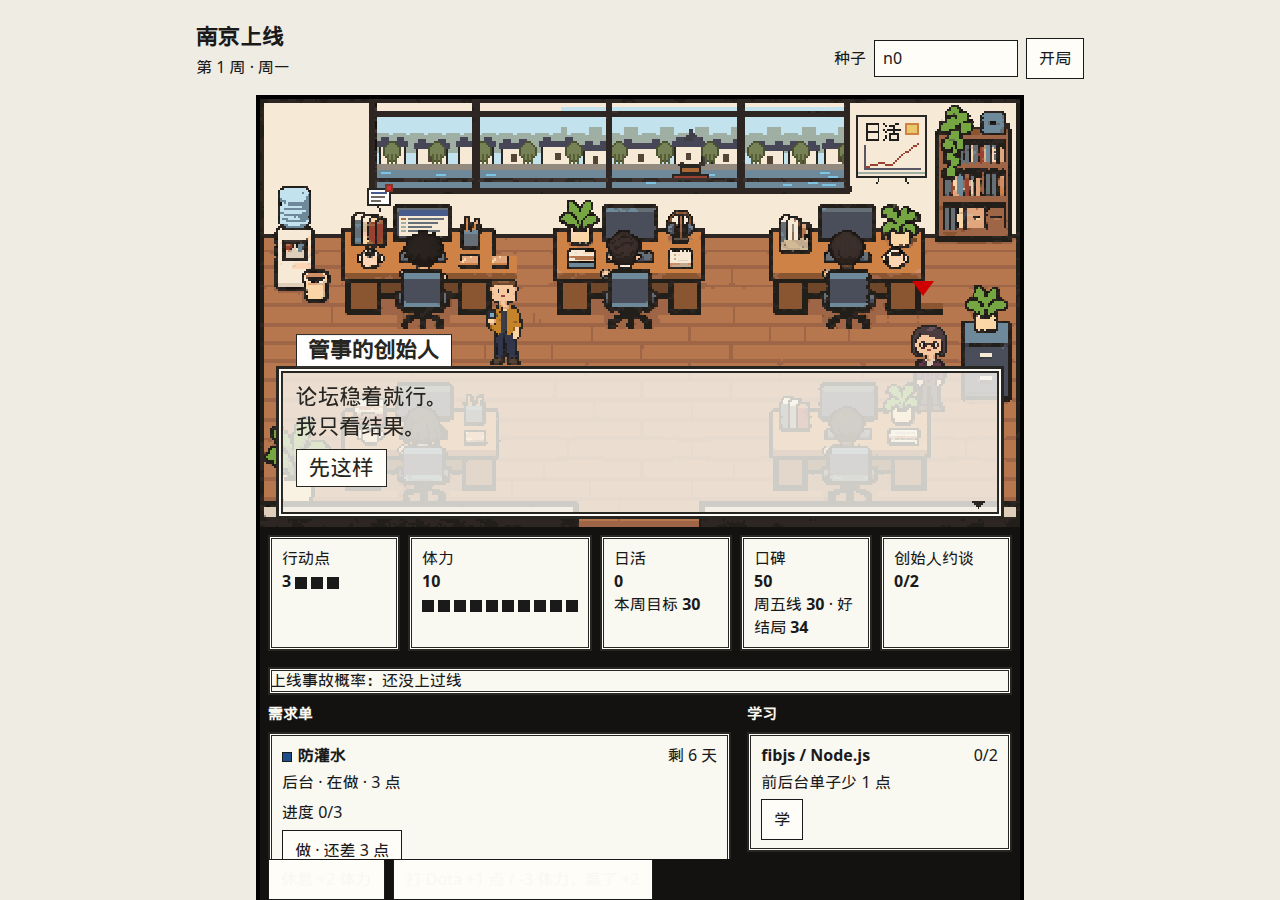
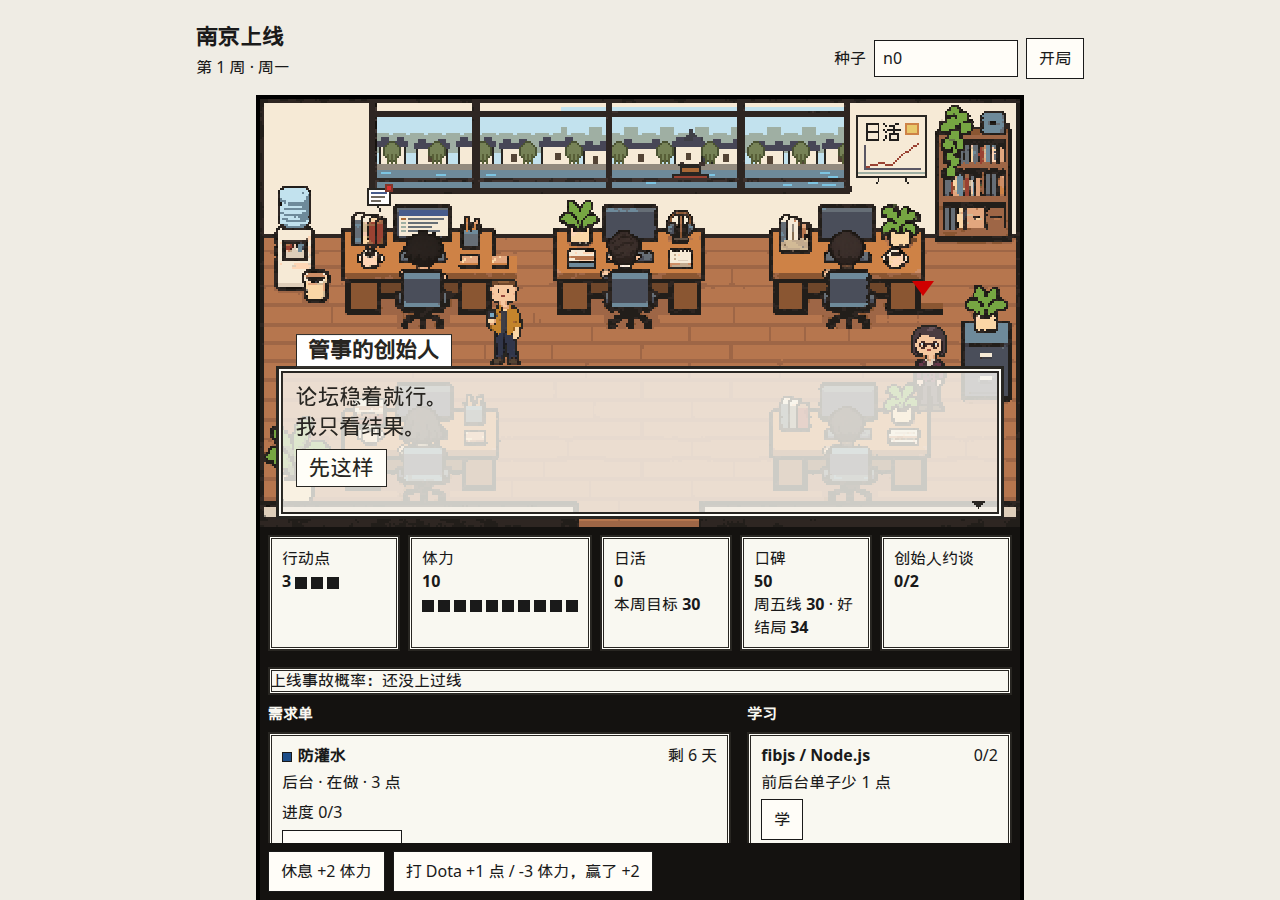
南京底部操作按钮改回深字浅底
场景栏的浅色字被按钮继承，休息和打 Dota 变成白底白字，又贴在深色底栏上。按钮改回深字，并确认点得到按钮本身。

Changed region(s): [[0.1875, 0.9333, 0.7812, 1.0]]

diff --git a/games/career-rpg/proto/nanjing/style.css b/games/career-rpg/proto/nanjing/style.css
@@ -197,7 +197,29 @@
 .screen > .actions,
 .screen .offstage { padding: 0 8px; }
 
-.screen > .actions { background: #141210; }
+.screen > .actions {
+  position: sticky;
+  bottom: 0;
+  z-index: 3;
+  background: #141210;
+  padding: 8px;
+}
+
+.screen > .actions button,
+.offstage button {
+  position: relative;
+  z-index: 1;
+  background: #fffdf8;
+  color: #1a1a1a;
+  border: 1px solid #1a1a1a;
+}
+
+.screen > .actions button:hover,
+.offstage button:hover {
+  background: #1a1a1a;
+  color: #fffdf8;
+}
+
 .ending .actions { background: transparent; }
 
 .offstage {
@@ -206,8 +228,6 @@
   gap: 8px;
   margin: 0 0 8px;
 }
-
-.offstage button { background: #f9f8f1; }
 
 .banner, .boss-card { margin: 8px; }
 
